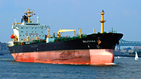
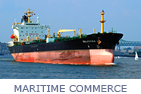
add text to theme button images

diff --git a/maps/app/core/Core.css b/maps/app/core/Core.css
@@ -79,7 +79,7 @@ button.close {
 }
 
 #scrollable-container .arrow-container {
-  height            : 79px;
+  height            : 94px;
   width             : 48px;
   position          : absolute;
   top               : 0;
@@ -179,7 +179,7 @@ li.dropdown {
 
 .navbar-fixed-top {
   margin: 0;
-  height: 135px;
+  height: 143px;
 }
 
 .navbar-inner {
@@ -245,7 +245,7 @@ li.dropdown {
   background-size   : 141px;
   background-repeat : no-repeat;
   margin-right      : 12px;
-  height            : 79px;
+  height            : 94px;
   z-index           : 1;
 }
 
@@ -260,7 +260,7 @@ li.dropdown {
 }
 
 .map-pane {
-    margin-top: 135px;
+    margin-top: 143px;
     min-height: 100%; 
     max-height: 100%;
     width: 100%;
@@ -355,7 +355,7 @@ li.dropdown {
   position: absolute;
   right: 10px;
   z-index: 999;
-  top: 137px;
+  top: 145px;
 }
 
 .no-bottom-border {
@@ -515,7 +515,7 @@ table.esriLegendLayer tr td {
 }
 
 #legendModal.modal {
-  top: 170px;
+  top: 190px;
   left: 65px;
   z-index: 9999999999;
 }
@@ -899,7 +899,7 @@ img[src="img/ais-legend.png"] {
 }
 
 #subthemeButtonGroup {
-  margin-top: 135px;
+  margin-top: 143px;
   margin-left: auto;
   margin-right: auto;
   position: absolute;
@@ -1038,7 +1038,7 @@ td.dijitMenuItemIconCell span{
 }
 
 #theme-button-container {
-  width: 1977px;
+  width: 1985px;
   margin-left: 33px;
 }
 
@@ -1058,6 +1058,8 @@ td.dijitMenuItemIconCell span{
   }*/
 
 #theme1 {
+  width: 149px !important;
+  background-size: 149px !important;
   background-image: url('../../img/theme-buttons/top/energy_infrastructure.png');
 }
 
@@ -1148,6 +1150,7 @@ td.dijitMenuItemIconCell span{
 
 button#theme12 {
   width       : 93px;
+  height      : 79px !important;
   text-indent : 0;
   border-top-right-radius: 0;
 }
@@ -1243,16 +1246,16 @@ button#theme12.active-theme {
 }
 
   #side-tabs img:nth-child(1) {
-    top: 170px;
+    top: 190px;
   }
 
   #side-tabs img:nth-child(2) {
-    top: 270px;
+    top: 290px;
   }
 
-  #side-tabs img:nth-child(3) {
+  /*#side-tabs img:nth-child(3) {
     top: 300px;
-  }
+  }*/
 
 .new-map-box-head {
   padding-right: 20px;

diff --git a/maps/app/core/Core.js b/maps/app/core/Core.js
@@ -1180,7 +1180,7 @@ define([
                 if (app.firstLV_load) {
                     var constraintBox = {
                         l:  0,
-                        t:  135,
+                        t:  143,
                         w:  app.screenWidth,
                         h:  app.mapHeight
                     };
